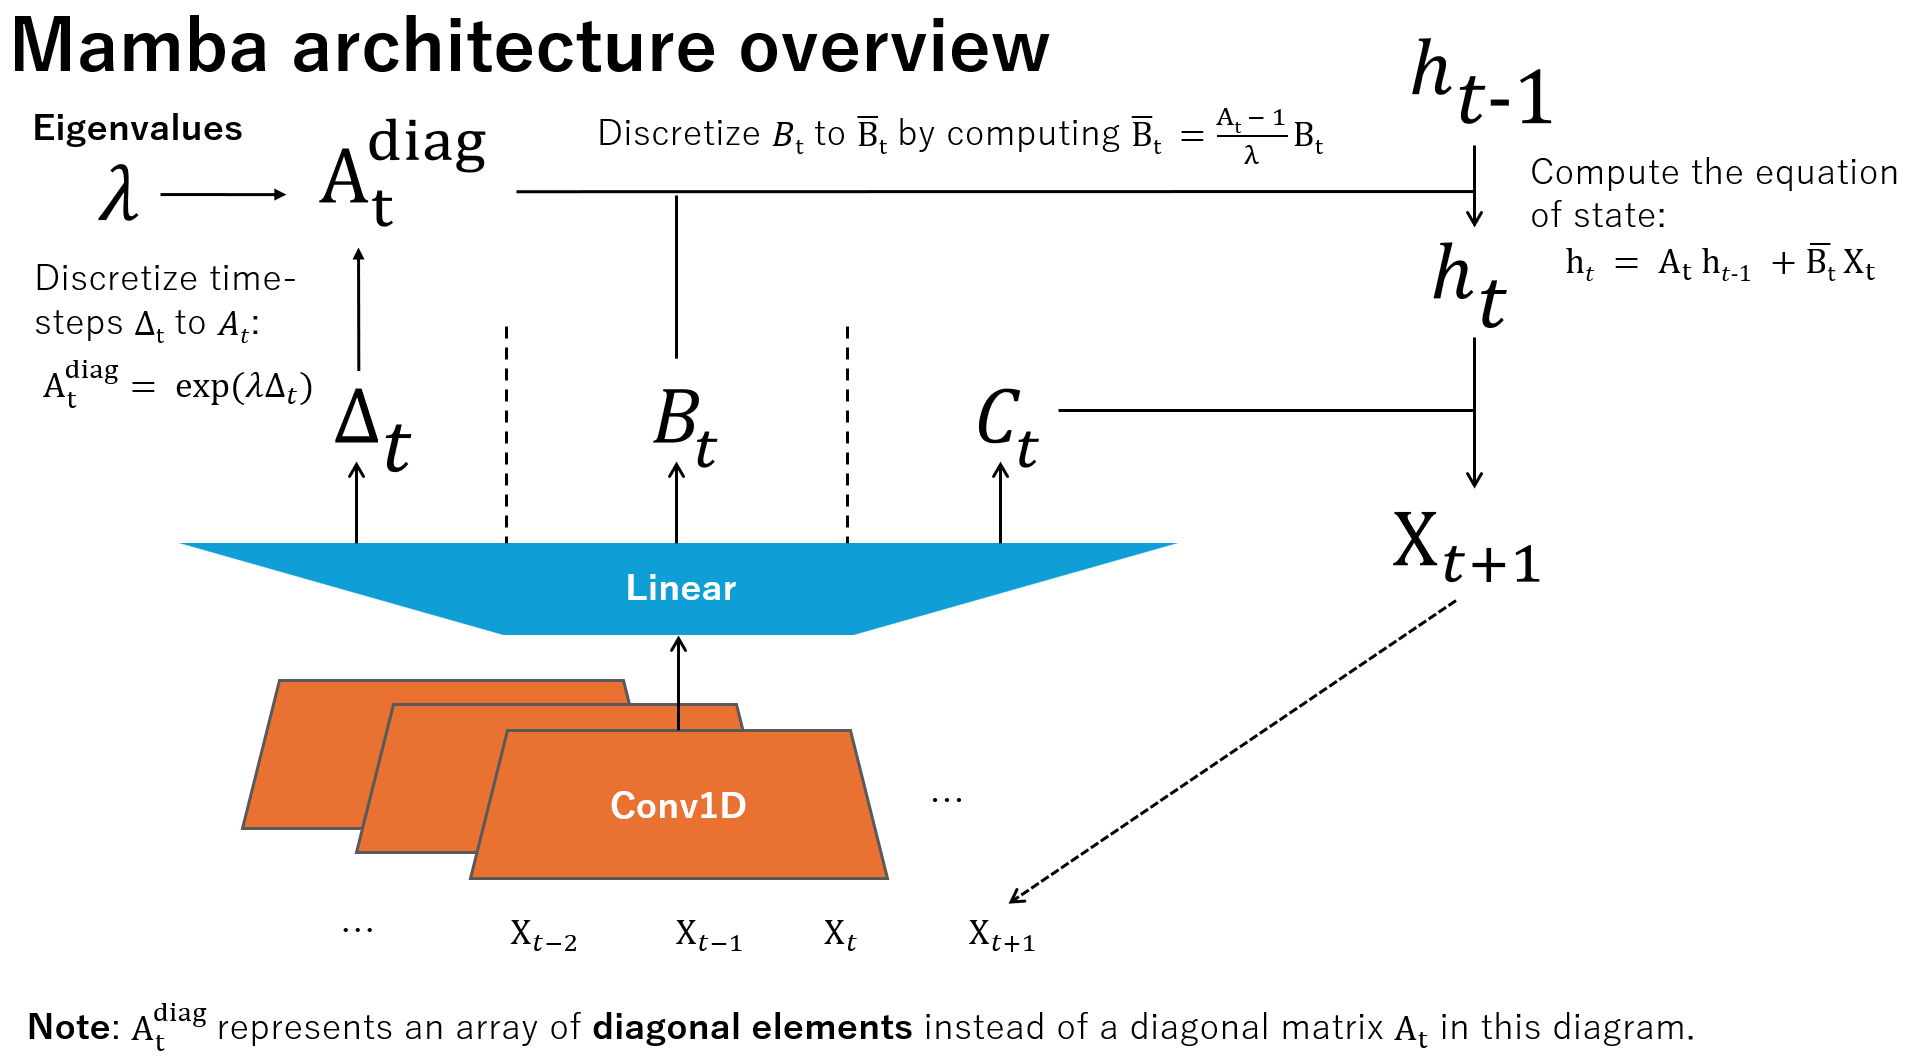
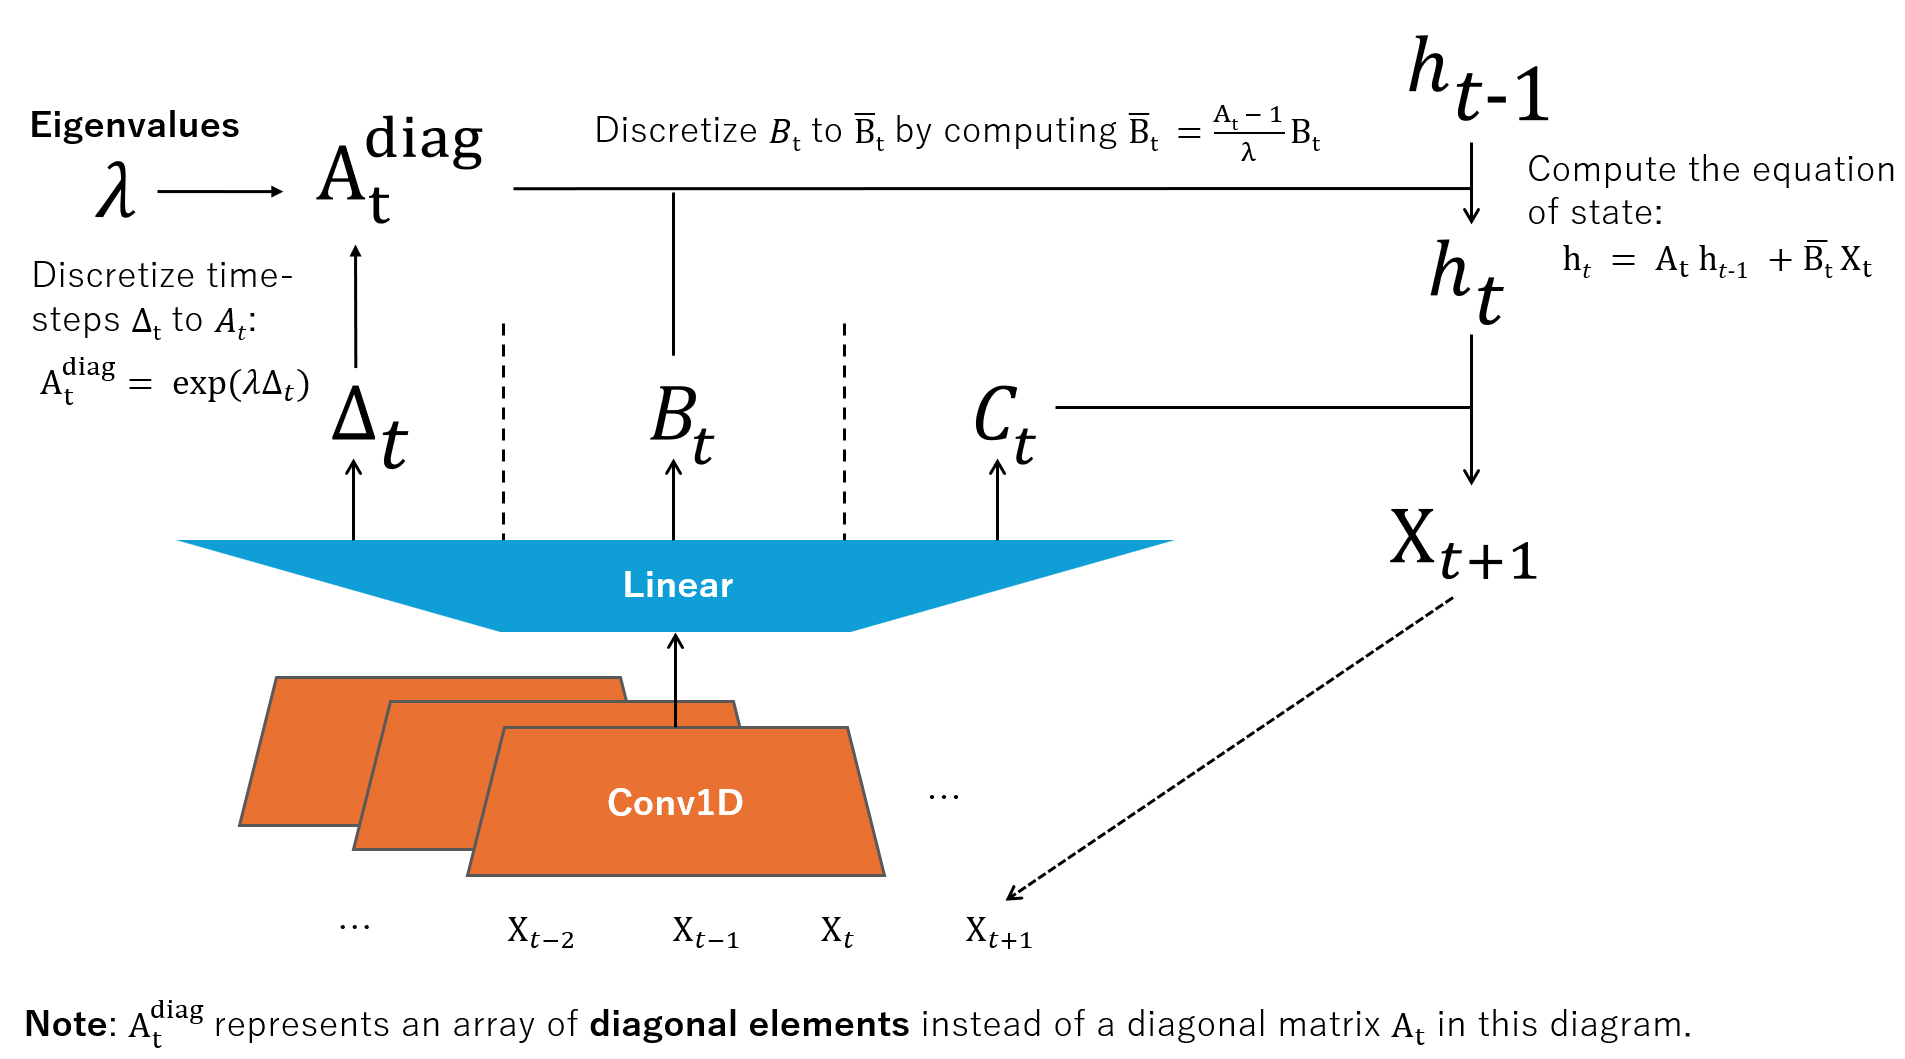
Update image

diff --git a/README.md b/README.md
@@ -1,5 +1,5 @@
 # mamba-lm
-
+## Mamba Architecture Overview
 ![architecture](images/architecture_overview.png)
 
 # References
